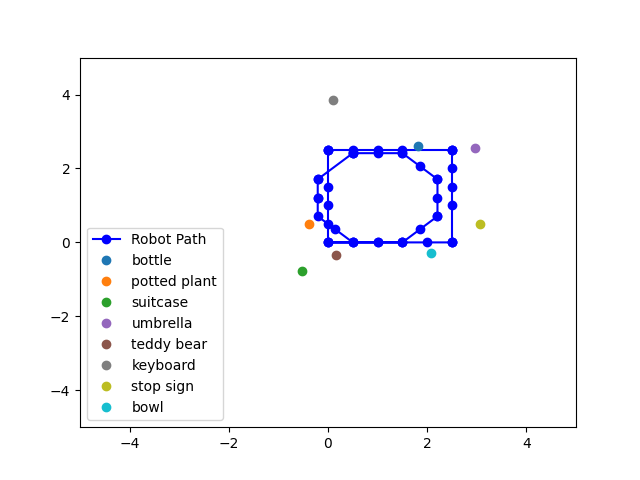
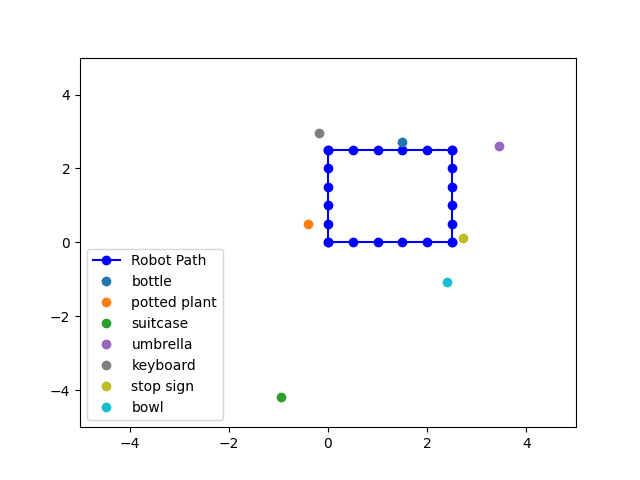
Sweeping working

diff --git a/rb5_control/src/hw3_slam.py b/rb5_control/src/hw3_slam.py
@@ -7,11 +7,12 @@ import numpy as np
 import matplotlib.pyplot as plt
 import time
 from hw5_square import make_square
+from mpi_control import MegaPiController
 
 class SlamControlNode(Node):
     def __init__(self):
         super().__init__('slam_control_node')
-
+        self.mpi_ctrl = MegaPiController(port="/dev/ttyUSB0", verbose=True)
         self.image_update = False
         self.EKF_update = False
         
@@ -186,8 +187,41 @@ class SlamControlNode(Node):
 
         print("\nx and y values:")
         print(x, y)
-        make_square(self.detected_objects[-8:])
+        square_side = make_square(self.detected_objects[-8:])
+        print(square_side)
+        self.sweep(square_side)
         self.done_pub.publish(msg)
+
+    def sweep(self, sweep_length):
+        print("start sweep")
+        num_sweep = sweep_length / 0.2
+        cycles = int(num_sweep // 2)
+        extra = int(num_sweep % 2)
+        print(num_sweep, cycles, extra)
+
+        self.mpi_ctrl.carStraight(-60)
+        time.sleep(1 * .7)
+        self.mpi_ctrl.carStop()
+
+        for _ in range(cycles):
+            print("start cycle")
+            self.mpi_ctrl.carStraight(60)
+            time.sleep(sweep_length / .1 * .7)
+            self.mpi_ctrl.carStop()
+            self.mpi_ctrl.carSlide(50)
+            time.sleep(2)
+            self.mpi_ctrl.carStop()
+            self.mpi_ctrl.carStraight(-60)
+            time.sleep(sweep_length / .1 * .7)
+            self.mpi_ctrl.carStop()
+            self.mpi_ctrl.carSlide(50)
+            time.sleep(2)
+            self.mpi_ctrl.carStop()
+        if extra == 1:
+            print("do extra")
+            self.mpi_ctrl.carStraight(60)
+            time.sleep(sweep_length / .1 * .7)
+            self.mpi_ctrl.carStop()
 
     def save_plot(self):
         filename = 'slam_plot.png'
@@ -256,7 +290,7 @@ class SlamControlNode(Node):
         self.movement_pub.publish(state_msg)
 
         turn_twist = Twist()
-        turn_twist.angular.z = 8.5  # 8.5 FAH Carpet
+        turn_twist.angular.z = 8.6  # 8.5 FAH Carpet
         self.twist_pub.publish(turn_twist)
         time.sleep(np.pi / 2)
         turn_twist.angular.z = 0.0
@@ -275,7 +309,7 @@ class SlamControlNode(Node):
         self.movement_pub.publish(state_msg)
 
         turn_twist = Twist()
-        turn_twist.angular.z = 8.5
+        turn_twist.angular.z = 8.6
         self.twist_pub.publish(turn_twist)
         time.sleep(np.pi / 4)
         turn_twist.angular.z = 0.0

diff --git a/rb5_control/src/hw5_square.py b/rb5_control/src/hw5_square.py
@@ -153,8 +153,10 @@ def make_square(object_coords, robot_width=0.20, robot_height=0.20, start_x=0.5,
     # Mark the center point
     plt.scatter(center_x, center_y, color='black', label='Center Point (Centroid)')
 
+    coverage_rate = len(filled_segments) / total_segments
+
     # Plot aesthetics
-    plt.title("Robot Sweeping Path Covering the Square")
+    plt.title(f"Robot Sweeping Path Covering the Square - Coverage Rate {coverage_rate * 100:.2f}%")
     plt.xlabel("X (meters)")
     plt.ylabel("Y (meters)")
     plt.grid(True)
@@ -163,10 +165,10 @@ def make_square(object_coords, robot_width=0.20, robot_height=0.20, start_x=0.5,
 
     # Save the plot as a PNG file
     plt.savefig("robot_sweeping_path.png")
-    plt.show()
+    # plt.show()
 
     # Calculate and print the coverage rate
-    coverage_rate = len(filled_segments) / total_segments
+    
     print(f"Coverage Rate: {coverage_rate * 100:.2f}%")
     print(f"Filled Segments: {len(filled_segments)} / {total_segments}")
 
@@ -174,6 +176,8 @@ def make_square(object_coords, robot_width=0.20, robot_height=0.20, start_x=0.5,
     print(f"Largest square dimensions: {square_side}m x {square_side}m")
     print(f"Square center point: ({center_x}, {center_y})")
     print(f"Square coordinates: ({square_start_x}, {square_start_y}) to ({square_end_x}, {square_end_y})")
+
+    return square_side
 
 # Test local with object coordinates
 # make_square([(1.123410701751709, 3.786043405532837, 'laptop'), (-0.18596267700195312, 0.21542099118232727, 'bottle'), (3.3864262104034424, 2.8606085777282715, 'potted plant'), (0.3437591791152954, 3.9257864952087402, 'suitcase'), (1.373099684715271, 0.6129531264305115, 'umbrella'), (-0.8698845505714417, 0.7219505906105042, 'teddy bear'), (1.3916902542114258, 4.341032981872559, 'keyboard'), (3.0175771713256836, -0.2616259753704071, 'stop sign'), (-2.8316409587860107, 1.4042980670928955, 'bicycle'), (-0.3431287407875061, 3.56701397895813, 'bowl'), (0.0, 0.0, 'scissors'), (-1.1141973733901978, 2.5057241916656494, 'backpack')])

diff --git a/rb5_control/src/hw3_move.py b/rb5_control/src/hw3_move.py
@@ -34,24 +34,24 @@ class MovementCommands(Node):
             ['move', 0.5], ['move', 0.5], ['move', 0.5], ['move', 0.5], ['move', 0.5],
             ['spin', 90],
             # # move to start octagon
-            ['move', 0.5],
+            # ['move', 0.5],
             # Octagon
-            ['move', 0.5], ['move', 0.5], 
-            ['spin', 45],
-            ['move', 0.5], ['move', 0.5],
-            ['spin', 45],
-            ['move', 0.5], ['move', 0.5],
-            ['spin', 45],
-            ['move', 0.5], ['move', 0.5],
-            ['spin', 45],
-            ['move', 0.5], ['move', 0.5],
-            ['spin', 45],
-            ['move', 0.5], ['move', 0.5],
-            ['spin', 45],
-            ['move', 0.5], ['move', 0.5],
-            ['spin', 45],
-            ['move', 0.5], ['move', 0.5],
-            ['spin', 45]
+            # ['move', 0.5], ['move', 0.5], 
+            # ['spin', 45],
+            # ['move', 0.5], ['move', 0.5],
+            # ['spin', 45],
+            # ['move', 0.5], ['move', 0.5],
+            # ['spin', 45],
+            # ['move', 0.5], ['move', 0.5],
+            # ['spin', 45],
+            # ['move', 0.5], ['move', 0.5],
+            # ['spin', 45],
+            # ['move', 0.5], ['move', 0.5],
+            # ['spin', 45],
+            # ['move', 0.5], ['move', 0.5],
+            # ['spin', 45],
+            # ['move', 0.5], ['move', 0.5],
+            # ['spin', 45]
         ]
         self.step_counter = -1
 
